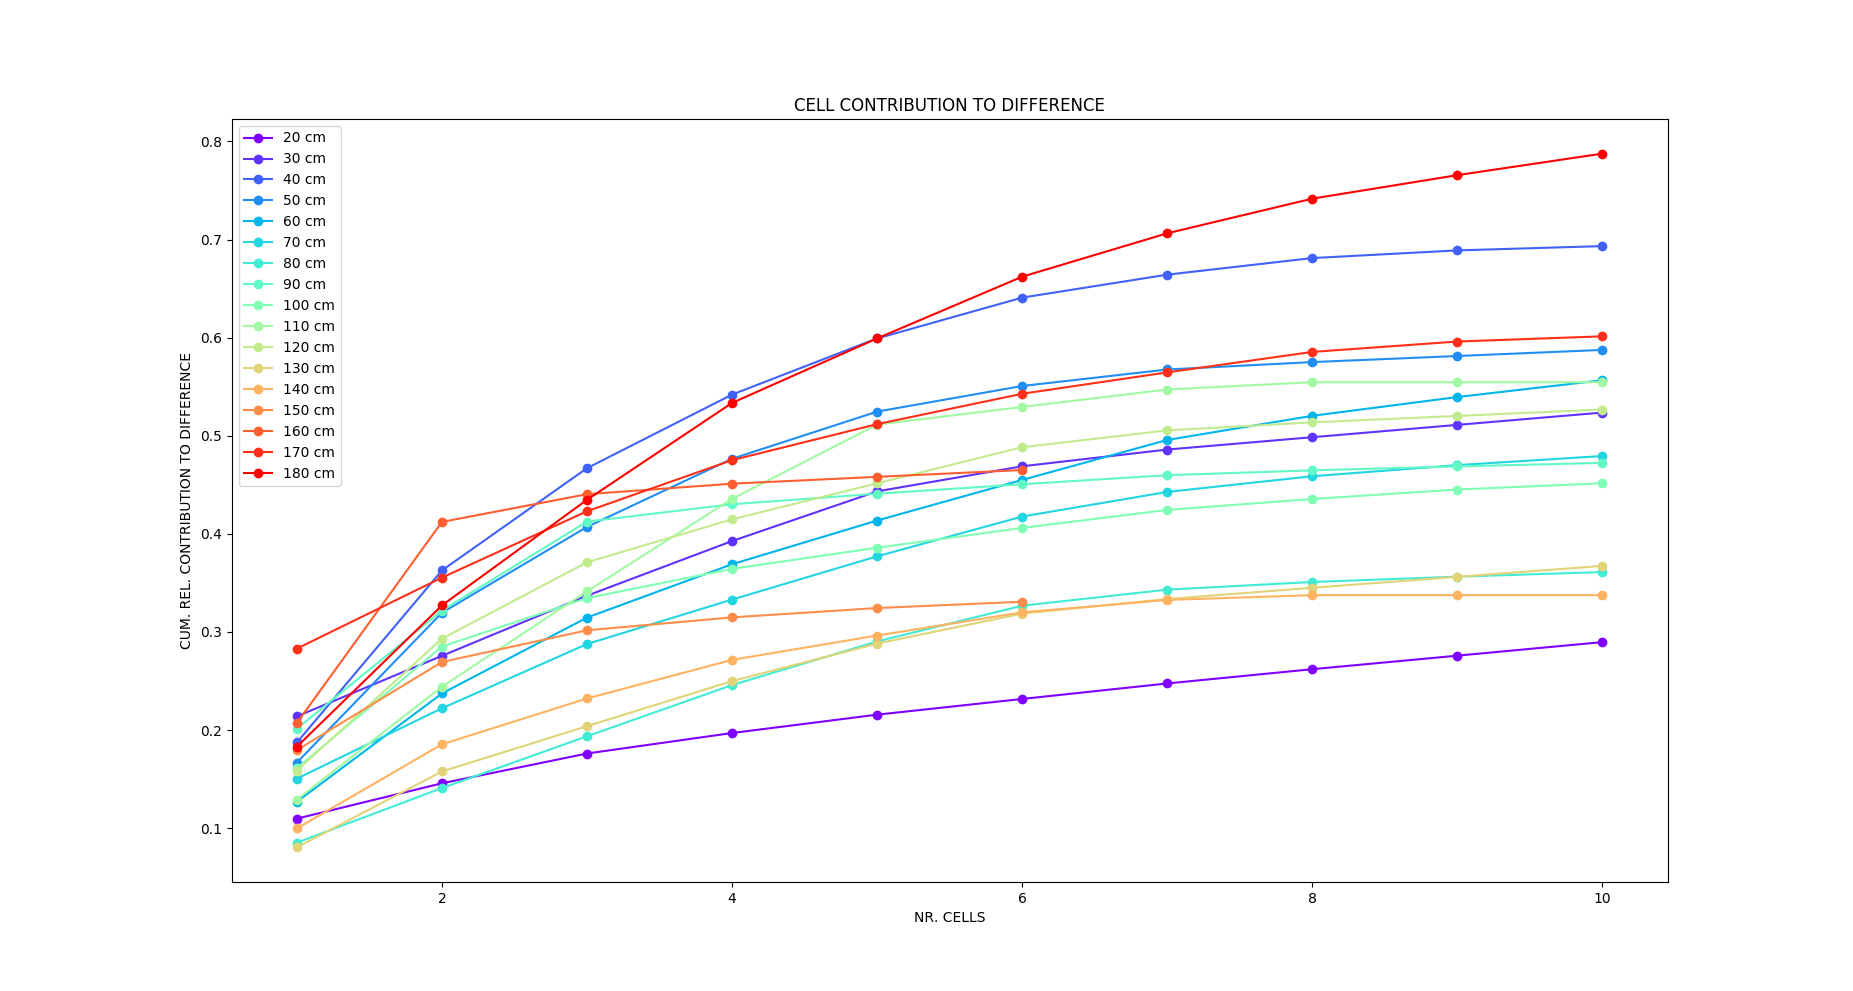
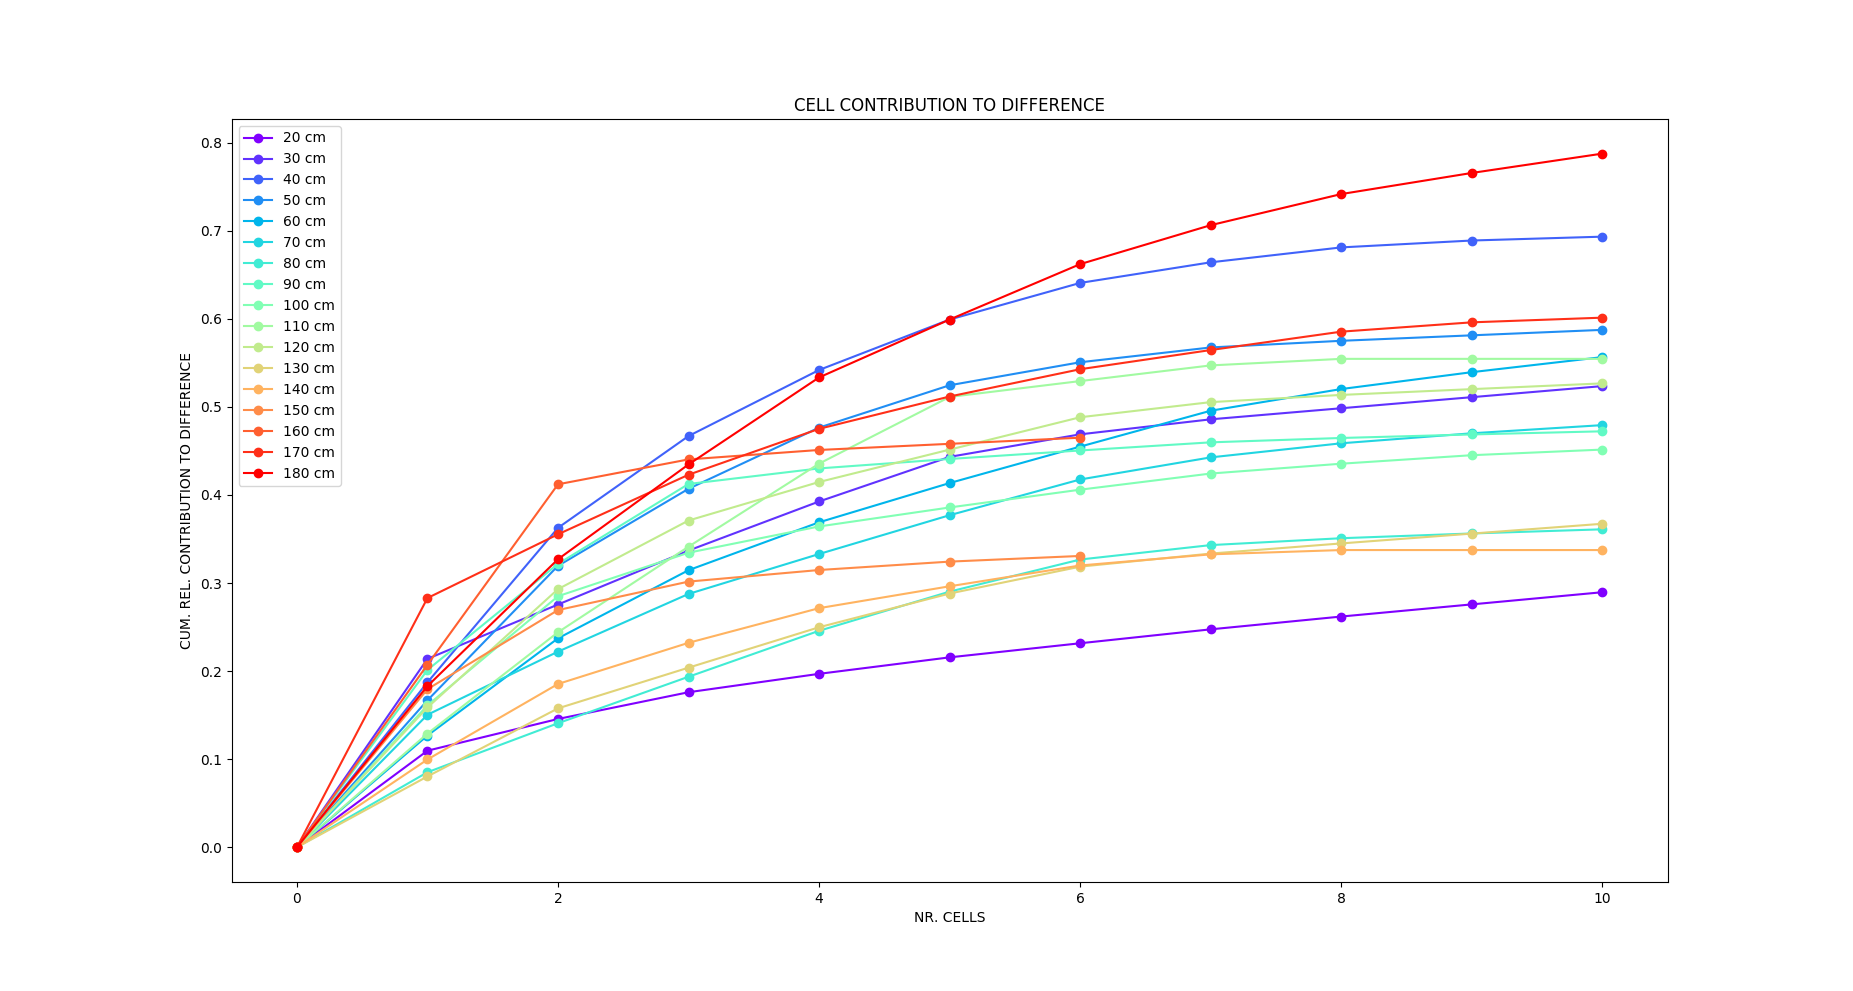
changed plots

diff --git a/quantification_methods.py b/quantification_methods.py
@@ -486,7 +486,9 @@ class Analysis:
         nr_cells = 10
 
         # check contribution of first ten cells after sorting
-        contribution_array = np.full((nr_cells, cell_to_diff_contribution.shape[1]),np.nan)
+        contribution_array = np.full((nr_cells+1, cell_to_diff_contribution.shape[1]),np.nan)
+        # make first column all zero
+        contribution_array[0, :] = 0
 
         # go through spatial bins
         for i, spat_bin in enumerate(cell_to_diff_contribution.T):
@@ -495,12 +497,12 @@ class Analysis:
             # sort cells with positive contribution according to magnitude of contribution
             temp = np.cumsum(np.flip(np.sort(temp)))
             # copy to contribution array
-            contribution_array[:min(nr_cells, temp.shape[0]), i] = temp[:min(nr_cells, temp.shape[0])]
+            contribution_array[1:min(nr_cells, temp.shape[0])+1, i] = temp[:min(nr_cells, temp.shape[0])]
 
         col_map = cm.rainbow(np.linspace(0, 1, x_axis.shape[0]))
 
         for i, contribution in enumerate(contribution_array.T):
-            plt.plot(np.arange(1, nr_cells+1), contribution, color=col_map[i, :], label=str(x_axis[i])+" cm",
+            plt.plot(np.arange(0, nr_cells+1), contribution, color=col_map[i, :], label=str(x_axis[i])+" cm",
                      marker="o")
 
         plt.title("CELL CONTRIBUTION TO DIFFERENCE")

diff --git a/main.py b/main.py
@@ -226,7 +226,7 @@ if __name__ == '__main__':
     # new_rule_trial = 7
     # dic.create_spatial_bin_dictionaries_transition(res_rule_switch, whl_lin_rule_switch, new_rule_trial, "LIGHT", "WEST")
 
-    new_transition = Analysis("RULE_LIGHT_spatial", "SWITCH_LIGHT_spatial", param_dic)
+    new_transition = Analysis("SWITCH_LIGHT_spatial", "SWITCH_WEST_spatial", param_dic)
     # new_transition.cross_cos_diff()
     # new_transition.cross_cos_diff_spat_trials()
     # new_transition.characterize_cells()
